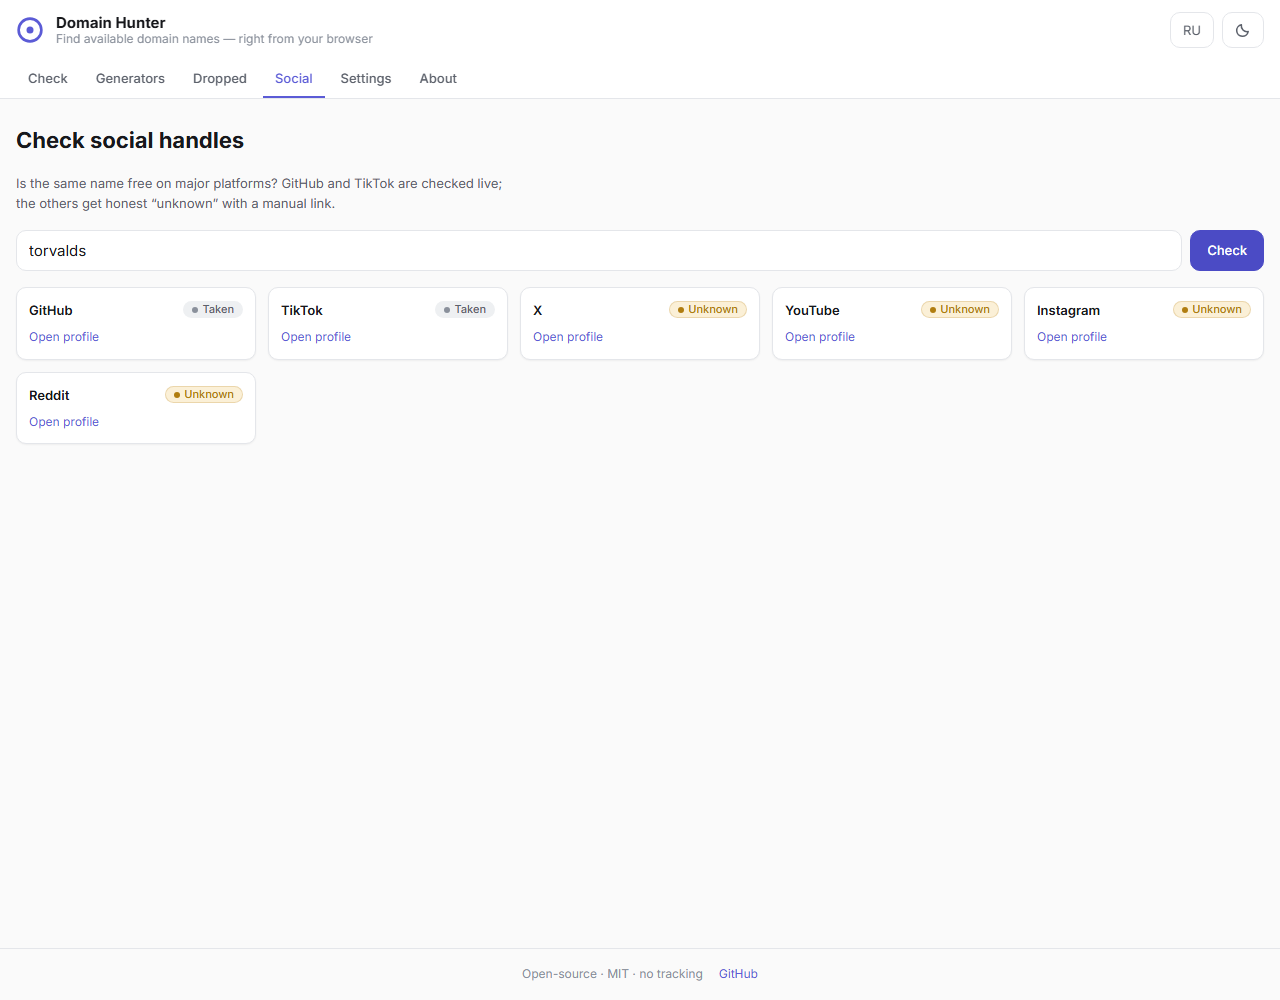
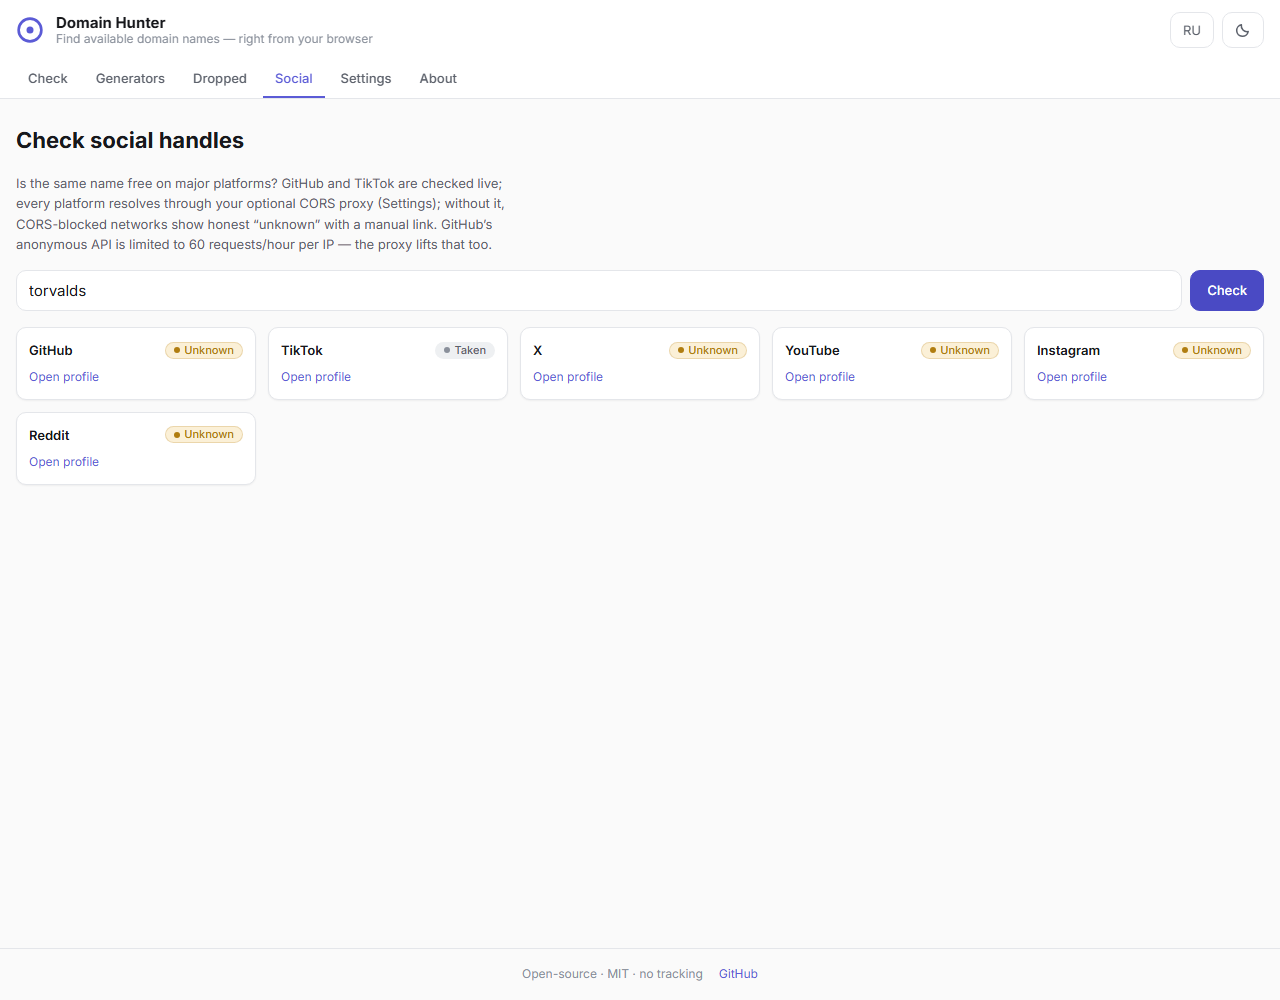
Social: full-platform checks via optional CORS proxy; rate-limit-aware fallback
GitHub anonymous API is capped at 60 req/h per IP (exhausted IPs see
403 -> unknown); X/YouTube/Instagram/Reddit are CORS-blocked in browsers.
worker.js gains /social/{platform}/{name} routes checking all six
platforms server-side; SocialTab routes through settings.proxyUrl for
non-live platforms and whenever a live check is refused. Without the
proxy the honest three-state model stands (unknown + manual link).
+3 proxy fallback tests; social desc explains the proxy path.

diff --git a/worker.js b/worker.js
@@ -148,10 +148,22 @@ const TLD_MAP = {
   "ch": "https://rdap.nic.ch/domain/",
   "ru": "https://rdap.tcinet.ru/domain/",
   "so": "https://rdap.nic.so/domain/",
-  "ly": "https://rdap.nic.ly/domain/"
+  "ly": "https://rdap.nic.ly/domain/",
+  "pl": "https://rdap.dns.pl/domain/"
 };
 
 const UA = 'domain-hunter-worker/2.0';
+
+// Social handle checks (server-side, bypasses browser CORS blocks).
+const SOCIAL_URLS = {
+  github: (n) => 'https://api.github.com/users/' + n,
+  x: (n) => 'https://x.com/' + n,
+  youtube: (n) => 'https://www.youtube.com/@' + n,
+  instagram: (n) => 'https://www.instagram.com/' + n,
+  reddit: (n) => 'https://www.reddit.com/user/' + n + '/about.json',
+  tiktok: (n) =>
+    'https://www.tiktok.com/oembed?url=' + encodeURIComponent('https://www.tiktok.com/@' + n),
+};
 
 function json(body, status = 200) {
   return new Response(JSON.stringify(body), {
@@ -170,7 +182,25 @@ export default {
     const path = url.pathname.replace(/^\/+/, '');
 
     if (!path) {
-      return json({ usage: 'GET /{domain}' });
+      return json({ usage: 'GET /{domain} | GET /social/{platform}/{name}' });
+    }
+
+    const socialMatch = path.match(/^social\/([a-z]+)\/([a-z0-9_.]{1,30})$/);
+    if (socialMatch) {
+      const platform = socialMatch[1];
+      const name = socialMatch[2];
+      const buildUrl = SOCIAL_URLS[platform];
+      if (!buildUrl) return json({ platform, error: 'unknown platform' }, 400);
+      try {
+        const res = await fetch(buildUrl(name), {
+          headers: { 'user-agent': UA },
+          redirect: 'follow',
+        });
+        const status = res.status === 200 ? 'taken' : res.status === 404 ? 'free' : 'unknown';
+        return json({ platform, name, status });
+      } catch (err) {
+        return json({ platform, name, status: 'unknown', error: err?.message ?? 'fetch failed' });
+      }
     }
 
     let domain;

diff --git a/tests/social.test.ts b/tests/social.test.ts
@@ -110,3 +110,35 @@ describe('PLATFORMS', () => {
     expect(byId.reddit).toBe('https://www.reddit.com/user/foo');
   });
 });
+
+describe('checkPlatform — proxy fallback', () => {
+  function jsonBody(status: number, body: unknown): Response {
+    return new Response(JSON.stringify(body), { status });
+  }
+
+  const reddit = PLATFORMS.find((p) => p.id === 'reddit')!;
+  const github = PLATFORMS.find((p) => p.id === 'github')!;
+
+  it('non-live platform resolves through the proxy when provided', async () => {
+    const f = (async (url: string) =>
+      String(url).includes('/social/')
+        ? jsonBody(200, { status: 'taken' })
+        : jsonBody(500, {})) as unknown as typeof fetch;
+    expect(await checkPlatform(reddit, 'name', f, 'https://proxy.test/')).toBe('taken');
+  });
+
+  it('github 403 (rate limit) falls back to the proxy', async () => {
+    const f = (async (url: string) =>
+      String(url).includes('/social/')
+        ? jsonBody(200, { status: 'free' })
+        : jsonBody(403, {})) as unknown as typeof fetch;
+    expect(await checkPlatform(github, 'name', f, 'https://proxy.test')).toBe('free');
+  });
+
+  it('proxy failure keeps unknown', async () => {
+    const f = (async () => {
+      throw new TypeError('proxy down');
+    }) as unknown as typeof fetch;
+    expect(await checkPlatform(reddit, 'name', f, 'https://proxy.test')).toBe('unknown');
+  });
+});

diff --git a/src/core/social.ts b/src/core/social.ts
@@ -59,14 +59,36 @@ export async function checkPlatform(
   platform: Platform,
   name: string,
   fetchImpl: typeof fetch = fetch,
+  proxyUrl?: string,
 ): Promise<SocialStatus> {
-  if (!platform.live) return 'unknown';
+  const proxyBase = proxyUrl ? (proxyUrl.endsWith('/') ? proxyUrl : `${proxyUrl}/`) : null;
+
+  async function viaProxy(): Promise<SocialStatus | null> {
+    if (!proxyBase) return null;
+    try {
+      const res = await fetchImpl(`${proxyBase}social/${platform.id}/${encodeURIComponent(name)}`);
+      if (!res.ok) return null;
+      const json = (await res.json()) as { status?: string };
+      return json.status === 'taken' || json.status === 'free' || json.status === 'unknown'
+        ? json.status
+        : null;
+    } catch {
+      return null;
+    }
+  }
+
+  if (!platform.live) {
+    return (await viaProxy()) ?? 'unknown';
+  }
   const cfg = LIVE[platform.id];
   if (!cfg) return 'unknown';
   try {
     const res = await fetchImpl(cfg.url(name));
-    return cfg.interpret(res.status);
+    if (res.status === 200) return 'taken';
+    if (res.status === 404) return 'free';
+    // 403/429 = anonymous rate limit (GitHub: 60/h per IP) or other refusal.
+    return (await viaProxy()) ?? 'unknown';
   } catch {
-    return 'unknown';
+    return (await viaProxy()) ?? 'unknown';
   }
 }

diff --git a/src/i18n/ru.ts b/src/i18n/ru.ts
@@ -23,7 +23,7 @@ export const ru: Dict = {
 
   'social.title': 'Проверка соцсетей',
   'social.desc':
-    'Свободно ли это имя на крупных платформах? GitHub и TikTok проверяются live; остальные — честно «неизвестно» со ссылкой для ручной проверки.',
+    'Свободно ли это имя на крупных платформах? GitHub и TikTok проверяются live; все платформы проверяются через ваш опциональный CORS-прокси (Настройки); без него закрытые CORS-ом сети честно показывают «неизвестно» со ссылкой вручную. Анонимный API GitHub ограничен 60 запросами/час с IP — прокси снимает и это.',
   'social.placeholder': 'имя_пользователя',
   'social.check': 'Проверить',
   'social.free': 'Свободно',

diff --git a/src/i18n/en.ts b/src/i18n/en.ts
@@ -23,7 +23,7 @@ export const en: Dict = {
 
   'social.title': 'Check social handles',
   'social.desc':
-    'Is the same name free on major platforms? GitHub and TikTok are checked live; the others get honest “unknown” with a manual link.',
+    'Is the same name free on major platforms? GitHub and TikTok are checked live; every platform resolves through your optional CORS proxy (Settings); without it, CORS-blocked networks show honest “unknown” with a manual link. GitHub’s anonymous API is limited to 60 requests/hour per IP — the proxy lifts that too.',
   'social.placeholder': 'username',
   'social.check': 'Check',
   'social.free': 'Free',

diff --git a/src/ui/components/SocialTab.svelte b/src/ui/components/SocialTab.svelte
@@ -1,6 +1,8 @@
 <script lang="ts">
   import type { CheckStatus } from '../../types';
+  import { get } from 'svelte/store';
   import { t } from '../../i18n';
+  import { settings } from '../store';
   import { PLATFORMS, checkPlatform, isValidHandle, type SocialStatus } from '../../core/social';
   import StatusBadge from './StatusBadge.svelte';
 
@@ -36,7 +38,7 @@
     }));
     await Promise.all(
       PLATFORMS.map((p, i) =>
-        checkPlatform(p, n).then((s) => {
+        checkPlatform(p, n, fetch, get(settings).proxyUrl || undefined).then((s) => {
           cards[i].status = s;
           cards[i].loading = false;
         }),
